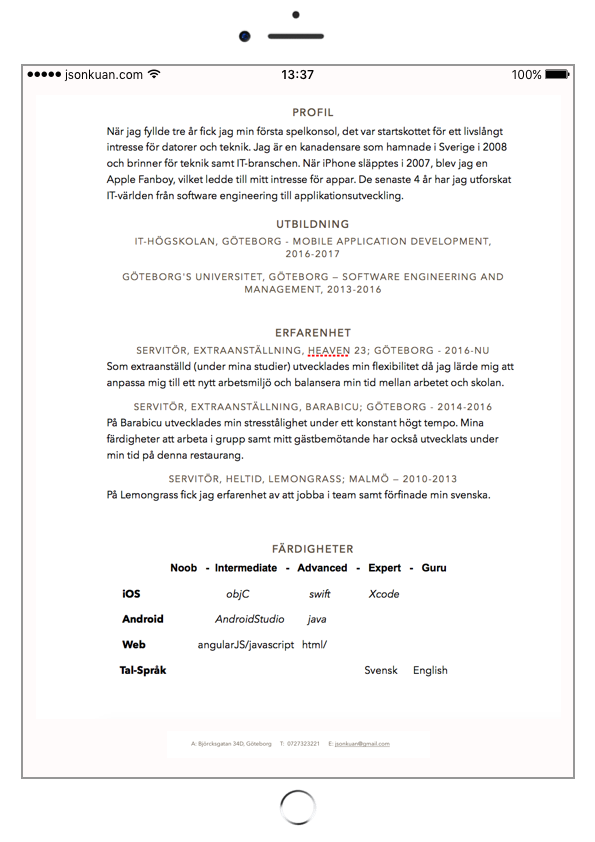
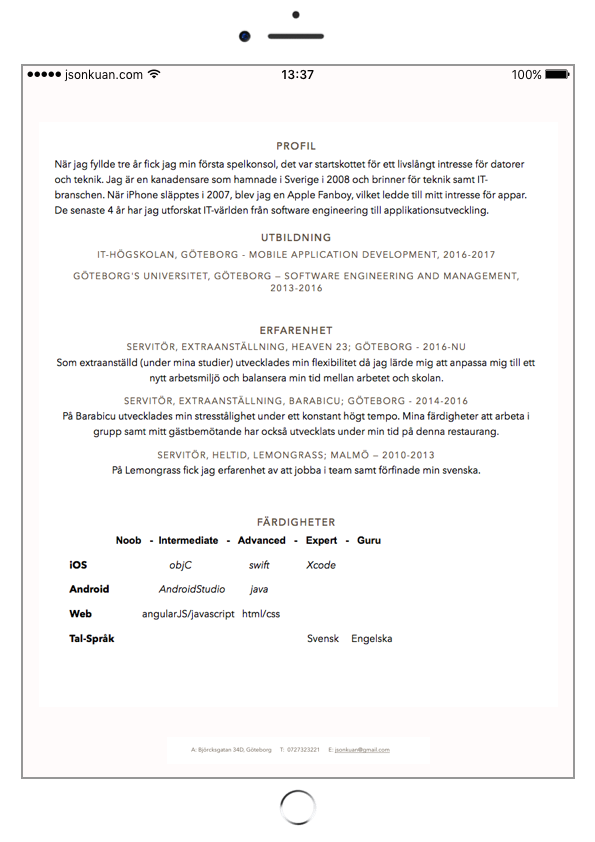
Formatted Resume Page

diff --git a/style.css b/style.css
@@ -14,24 +14,42 @@ body{
     background-color:#272822;
     color:#f8f8f0;
     font-size:22px;
-    padding:5rem 0 0 0;
+    padding:0 0 0 0;
     margin:0
 }
 
-pre, span, a {
+pre, a, span{
     font-family:Consolas,"Liberation Mono",Menlo,Courier,monospace;
     overflow:auto;
-    margin:1rem 0
-    color: #66d9ef;
+    margin:1rem 0;
 }
 
-a {
+a, span#my-name {
     color:#66d9ef;
     text-decoration:none
 }
 
 a:hover {
     color:#f92672
+}
+
+#back-home{
+    height: 10%;
+    width:10%; 
+    float: right;
+    position: absolute;
+    right: 0;
+    z-index: 1;
+}
+
+#resume-img {
+    height: 60%;
+    width: 60%;
+    margin-top: 10%;
+    position: relative; 
+    left: 50%;
+    transform: translate(-50%);
+    border-radius: 10px; 
 }
 
 .text-center{
@@ -45,7 +63,15 @@ a:hover {
 }
 
 .home {
-    position:absolute;top:0;left:0;width:100%;height:100%;text-align:center}
+    position:absolute;
+    /*
+     *top:0;
+     *left:0;
+     */
+    width:100%;
+    height:100%;
+    text-align:center
+}
     
 .home pre {
     margin-top:2rem;

diff --git a/partials/home.html b/partials/home.html
@@ -2,14 +2,14 @@
 <pre>
 
 {
-  <span>name</span> : "<span>Jason Kuan</span>",
-  <span>github</span> : "<a href="https://github.com/jsonkuan"><span>@jsonkuan</span></a>",
+  <span>name</span> : "<span id="my-name">Jason Kuan</span>",
+  <span>github</span> : "<a href="httpsmy-name://github.com/jsonkuan"><span>@jsonkuan</span></a>",
   <span>linkedin</span> : "<a href="https://linkedin.com/in/jsonkuan"><span>@jsonkuan</span></a>",
   <span>email</span> : "<a href="mailto:jsonkuan@gmail.com"><span>jsonkuan@gmail.com</span></a>",
   <span>View</span>: [
-      <a href="#!/projects">Projects</a>,
-      <a href="images/resume.png"><span>My Resume</span></a>,
-      <a href="#!/fortunummer">Fortunummer</a>
+      <a href="#!/projects">My Apps</a>,
+      <a href="#!/resume"><span>My Resume</span></a>,
+      <a href="#!/fortunummer">Your Fortunummer</a>
   ]
 }
 </pre>

diff --git a/script.js b/script.js
@@ -7,6 +7,9 @@ app.config(function ($routeProvider) {
     }).when('/fortunummer', {
         controller: 'FortunummerController',
         templateUrl: 'partials/fortunummer.html'
+    }).when('/resume', {
+        controller: 'HomeController',
+        templateUrl: 'partials/resume.html'
     }).otherwise({
         controller: 'HomeController',
         templateUrl: 'partials/home.html'

diff --git a/partials/resume.html b/partials/resume.html
@@ -1,0 +1,5 @@
+<nav>
+    <a href="#!/"><img id="back-home" src="images/home_white.svg" alt="Back"/></a> 
+</nav>
+
+<img id="resume-img" src="images/resume.png" alt="Resume unable to load" />
